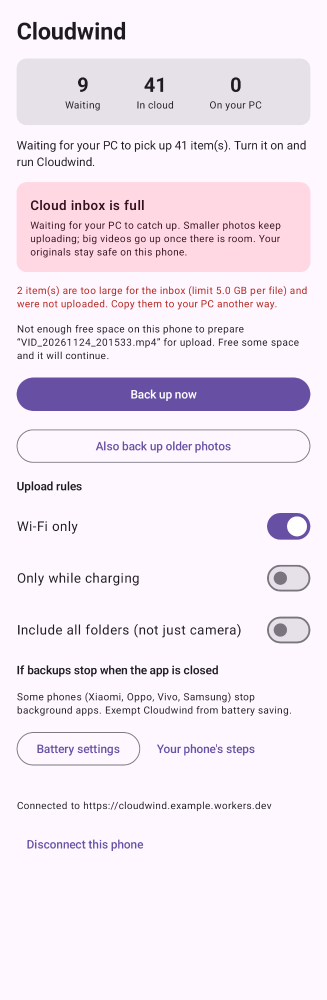
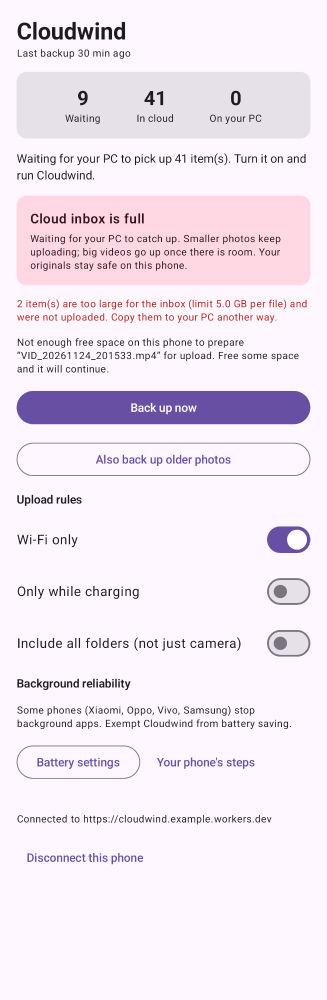
Agent status/phone watchdog, live resume e2e, docs and updated screenshots
Claude-Session: https://claude.ai/code/session_01JqHzNDKZeFoqzaqtaWQJrg

diff --git a/android/core/src/test/kotlin/dev/cloudwind/core/E2eTest.kt b/android/core/src/test/kotlin/dev/cloudwind/core/E2eTest.kt
@@ -4,6 +4,7 @@ import java.io.File
 import java.util.Base64
 import kotlin.test.Test
 import kotlin.test.assertEquals
+import kotlin.test.assertFailsWith
 import kotlin.test.assertTrue
 
 /** Live test against a deployed Worker. Skipped unless CLOUDWIND_E2E_URL and CLOUDWIND_E2E_PHONE_TOKEN are set. */
@@ -33,5 +34,32 @@ class E2eTest {
         val ids = dir.listFiles { f -> f.name.startsWith("IMG_") || f.name.startsWith("VID_") }!!.map { uploadFile(client, it) }
         val st = client.status().objects.associateBy { it.id }
         ids.forEach { assertEquals("uploaded", st[it]?.state) }
+    }
+}
+
+/** Live: pause a multipart upload mid-way, resume from the saved state, and let the PC verify the bytes. */
+class E2eResumeTest {
+    private val url = System.getenv("CLOUDWIND_E2E_URL")
+    private val token = System.getenv("CLOUDWIND_E2E_PHONE_TOKEN")
+    private val key = ByteArray(32) { it.toByte() }
+
+    @Test
+    fun paused_upload_resumes_against_the_live_worker() {
+        if (url.isNullOrEmpty() || token.isNullOrEmpty()) return
+        val src = File(System.getenv("CLOUDWIND_E2E_DIR") ?: error("CLOUDWIND_E2E_DIR"), "VID_resume.mp4")
+        val client = WorkerClient(url, token)
+        val enc = File.createTempFile("cwnd", ".enc")
+        try {
+            enc.outputStream().buffered().use { Crypto.encrypt(key, src.name, src.lastModified() / 1000, { src.inputStream() }, it) }
+            val id = WorkerClient.newObjectId()
+            var saved: ResumeState? = null
+            var parts = 0
+            assertFailsWith<UploadInterrupted> { client.upload(id, enc, onState = { saved = it }, shouldStop = { parts++ >= 3 }) }
+            assertEquals(3, saved!!.parts.size, "three parts were saved before the pause")
+            // Persist + reload exactly as the app does.
+            client.upload(id, enc, resume = ResumeState.fromJson(saved!!.toJson()), onState = { saved = it })
+            assertEquals(null, saved)
+            assertEquals("uploaded", client.status().objects.first { it.id == id }.state)
+        } finally { enc.delete() }
     }
 }

diff --git a/crates/cloudwind-agent/src/main.rs b/crates/cloudwind-agent/src/main.rs
@@ -45,6 +45,8 @@ enum Cmd {
     },
     /// Pull new photos from the inbox into the library.
     Sync,
+    /// Show what is waiting in the inbox and whether the phone is still backing up.
+    Status,
     /// Print the key for pairing the phone.
     Pair,
     /// Encrypt a file into the inbox, as the phone will (for testing).
@@ -153,8 +155,24 @@ fn main() -> Result<()> {
                 "{} synced, {} duplicate(s) skipped, {} waiting to retry, {} failed",
                 r.synced.len(), r.duplicates, r.backed_off, r.failed.len()
             );
+            if let Some(w) = &cfg.worker {
+                // Best effort: a stalled phone is worth a line even when the sync itself went fine.
+                if let Ok(h) = RemoteInbox::new(&w.url, &w.agent_token).health() {
+                    if phone_stalled(&h) {
+                        eprintln!("warning: {}", describe_phone(&h).0);
+                    }
+                }
+            }
             if !r.failed.is_empty() {
                 std::process::exit(1);
+            }
+        }
+        Cmd::Status => {
+            let (cfg, _) = load(&path)?;
+            let w = cfg.worker.context("status needs a Worker inbox (run init with --worker-url)")?;
+            let h = RemoteInbox::new(&w.url, &w.agent_token).health()?;
+            for line in report_lines(&h) {
+                println!("{line}");
             }
         }
         Cmd::Upload { file } => {
@@ -194,4 +212,74 @@ fn write_private(path: &PathBuf, data: &[u8]) -> Result<()> {
     #[cfg(not(unix))]
     fs::write(path, data)?;
     Ok(())
+}
+
+const PHONE_QUIET_WARN_SECS: u64 = 48 * 3600;
+
+fn ago(secs: u64) -> String {
+    match secs {
+        0..=59 => "just now".into(),
+        60..=3599 => format!("{} min ago", secs / 60),
+        3600..=86399 => format!("{} h ago", secs / 3600),
+        _ => format!("{} day{} ago", secs / 86400, if secs / 86400 == 1 { "" } else { "s" }),
+    }
+}
+
+/// True when the phone has not contacted the inbox for two days. Quiet is only worrying if the
+/// phone has been seen before; a fresh install has simply never connected.
+fn phone_stalled(h: &remote::Health) -> bool {
+    h.phone_last_seen.map_or(false, |t| h.now.saturating_sub(t) > PHONE_QUIET_WARN_SECS)
+}
+
+fn describe_phone(h: &remote::Health) -> (String, bool) {
+    match h.phone_last_seen {
+        None => ("Phone has not contacted the inbox yet.".into(), false),
+        Some(t) if phone_stalled(h) => (
+            format!(
+                "Phone last contacted the inbox {}. Backups may have stopped: open Cloudwind on the phone, and check its battery settings.",
+                ago(h.now.saturating_sub(t))
+            ),
+            true,
+        ),
+        Some(t) => (format!("Phone last contacted the inbox {}.", ago(h.now.saturating_sub(t))), false),
+    }
+}
+
+fn mb(b: u64) -> String {
+    format!("{:.1} MB", b as f64 / 1_048_576.0)
+}
+
+fn report_lines(h: &remote::Health) -> Vec<String> {
+    vec![
+        format!("Waiting for this PC: {} item(s), {}", h.pending_count, mb(h.pending_bytes)),
+        format!("Inbox: {} of {} used", mb(h.inbox_bytes), mb(h.cap_bytes)),
+        describe_phone(h).0,
+    ]
+}
+
+#[cfg(test)]
+mod tests {
+    use super::*;
+
+    fn health(last_seen: Option<u64>, now: u64) -> remote::Health {
+        remote::Health { phone_last_seen: last_seen, pending_count: 3, pending_bytes: 5_242_880, inbox_bytes: 0, cap_bytes: 8 << 30, now }
+    }
+
+    #[test]
+    fn phone_quiet_for_two_days_is_flagged() {
+        let day = 86_400;
+        assert!(!phone_stalled(&health(Some(1000), 1000 + day)));
+        assert!(phone_stalled(&health(Some(1000), 1000 + 2 * day + 1)));
+        assert!(!phone_stalled(&health(None, 9_999_999)), "never seen is not 'stalled'");
+    }
+
+    #[test]
+    fn report_reads_naturally() {
+        let l = report_lines(&health(Some(1000), 1000 + 3 * 3600));
+        assert_eq!(l[0], "Waiting for this PC: 3 item(s), 5.0 MB");
+        assert!(l[2].contains("3 h ago"));
+        assert!(describe_phone(&health(None, 5)).0.contains("not contacted"));
+        let stalled = describe_phone(&health(Some(0), 3 * 86_400));
+        assert!(stalled.1 && stalled.0.contains("3 days ago") && stalled.0.contains("battery"));
+    }
 }

diff --git a/crates/cloudwind-agent/src/remote.rs b/crates/cloudwind-agent/src/remote.rs
@@ -35,6 +35,17 @@ struct Pending {
 struct PendingObj {
     id: String,
 }
+/// What the PC can learn about the phone and inbox in one call.
+#[derive(Deserialize, Debug)]
+pub struct Health {
+    pub phone_last_seen: Option<u64>,
+    pub pending_count: u64,
+    pub pending_bytes: u64,
+    pub inbox_bytes: u64,
+    pub cap_bytes: u64,
+    pub now: u64,
+}
+
 #[derive(Deserialize)]
 struct Created {
     #[serde(rename = "uploadId")]
@@ -54,6 +65,10 @@ impl RemoteInbox {
         self.agent
             .request(method, &format!("{}{}", self.base, path))
             .set("authorization", &format!("Bearer {}", self.token))
+    }
+
+    pub fn health(&self) -> Result<Health> {
+        Ok(self.req("GET", "/v1/health").call().context("reading inbox health")?.into_json()?)
     }
 
     /// Upload an encrypted file as the phone would. Returns the object id.

diff --git a/README.md b/README.md
@@ -94,6 +94,10 @@ What the clients do around those limits:
 - **Phone, newest first:** recent photos are backed up before an old backlog.
 - **Phone, file changing while it is read** (a video still recording): the upload is refused and retried later, instead of shipping a hash the PC would reject forever.
 - **Phone, low on free space:** big videos are staged as an encrypted temp copy; if there isn't room it skips them with a notice.
+- **Phone, big videos resume:** the encrypted copy is kept on disk and multipart progress is saved after every part, so an OS stop, network drop or app restart continues from the last finished part (fixed 8 MiB parts, as R2 requires equal sizes). If the server forgot the upload (abandoned for 24 h) it restarts once, automatically.
+- **Phone, run time:** plain background jobs get about 10 minutes, so a pass stops cleanly at its budget and queues a continuation. Foreground-service time is rationed with a local ledger because Android 15 allows only 6 h per 24 h for data-sync services; WorkManager 2.10 (which stops the service itself on timeout) is required.
+- **Phone, partial photo access (Android 14+):** if the user shared only some photos, the app says so and offers to ask for all of them, instead of looking healthy while skipping most of the library.
+- **Phone, stalled backups:** the home screen shows when the last backup finished and, if work is waiting but nothing succeeded for a day, a warning with the likely cause (battery limits) and a fix button.
 - **PC, flaky internet:** downloads resume from the byte where they stopped, with retry backoff.
 - **PC, corrupt or undecryptable object:** discarded, retried with growing backoff (1 min doubling to 6 h), never in a tight loop.
 - **PC, duplicates:** the agent remembers file hashes (`state/seen.txt`), so a re-paired phone or overlapping "back up older photos" doesn't create a second copy; it still confirms the object so the phone can delete.
@@ -101,9 +105,11 @@ What the clients do around those limits:
 
 Recommended: in the Cloudflare dashboard create a billing/usage notification for R2 so a misconfiguration can't surprise you.
 
+- **PC, watching the phone:** `cloudwind status` shows what is waiting and when the phone last contacted the inbox; `cloudwind sync` warns if the phone has been silent for two days. This catches the case the phone itself can't: its background jobs being killed.
+
 Tests: `worker/limits-test.sh` (needs a local Worker with tiny caps, see its header), `worker/smoke.sh`, `cargo test`, `cd android && ./gradlew :core:test`.
 
-## Screenshots
+## Screenshots (`docs/screenshots/`)
 
 Phone screens are rendered from the real Compose code with sample data (`cd android && ./gradlew :app:recordPaparazziDebug`;
 `verifyPaparazziDebug` flags unintended UI changes). The PC image is the real CLI output with demo values.
